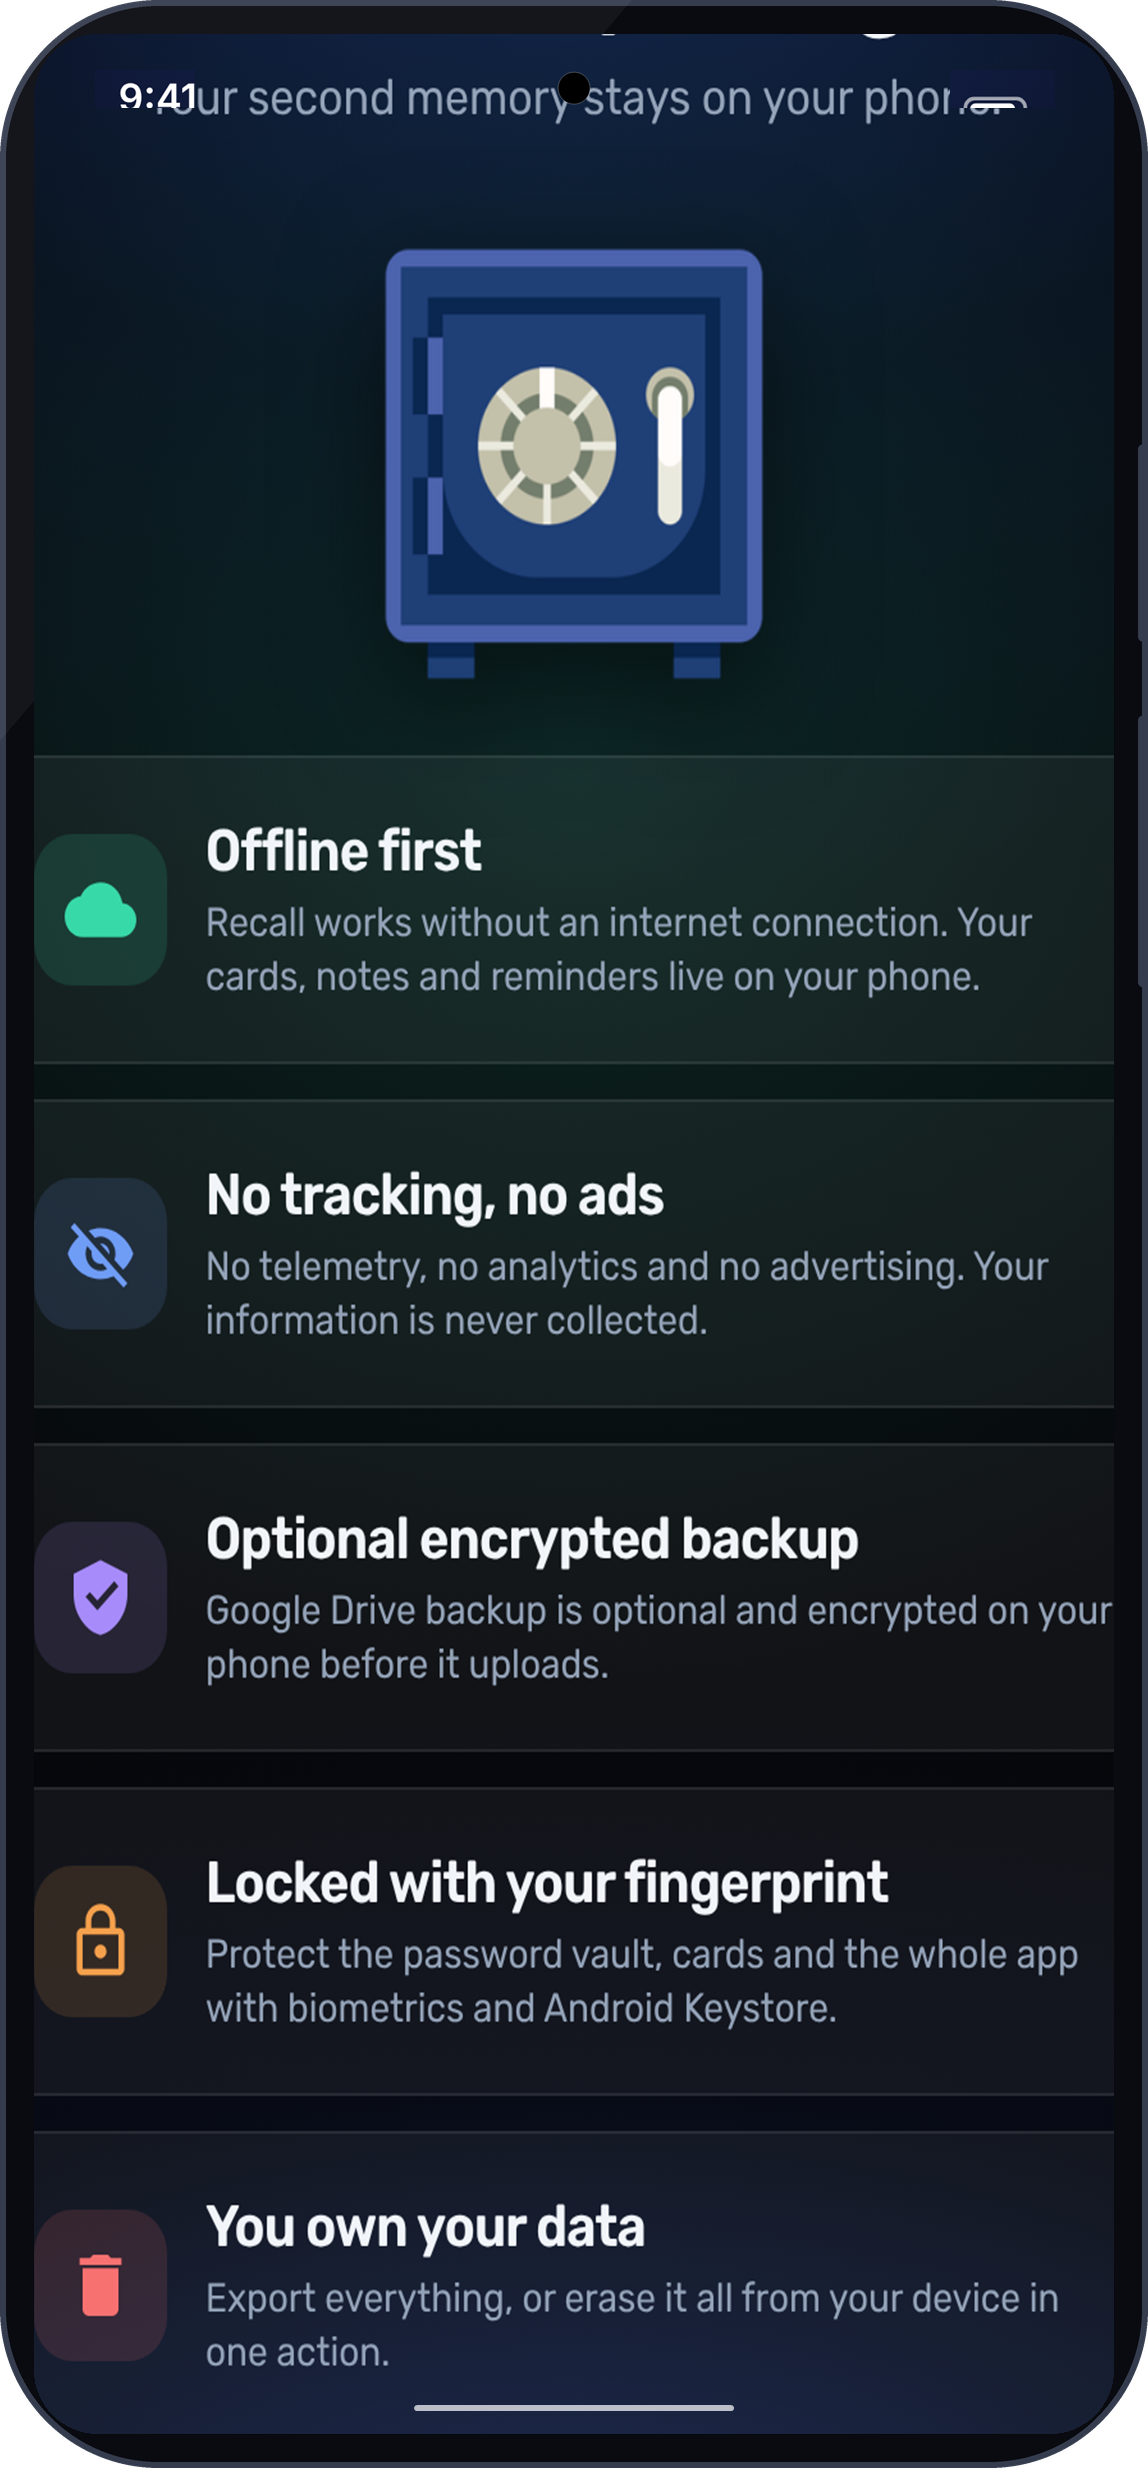
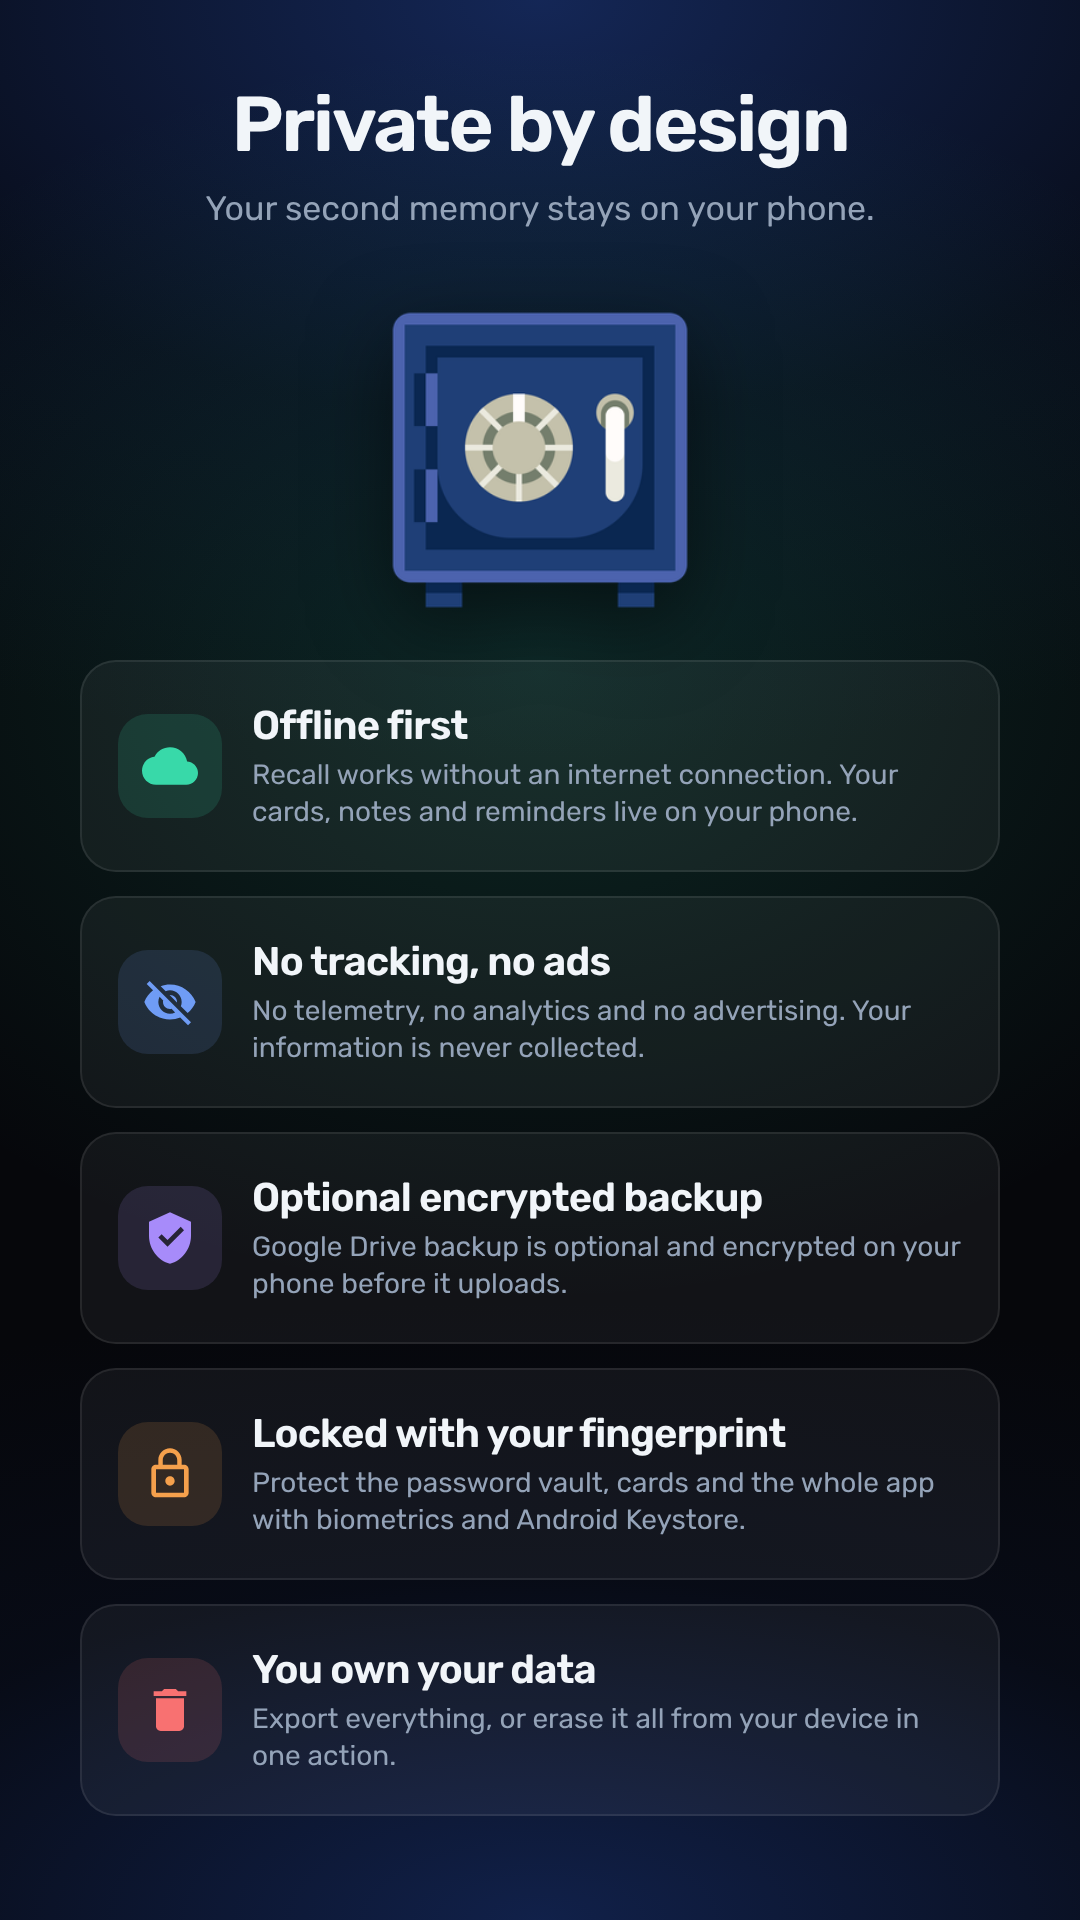
Position Privacy & Security as the final showcase section using the full card image

Changed region(s): [[0.0, 0.0, 1.0, 1.0], [0.9167, 0.625, 0.9472, 0.6562]]

diff --git a/components/case-study/recall-story.tsx b/components/case-study/recall-story.tsx
@@ -21,36 +21,45 @@ const stories = [
     { title: 'Weekly glance & activity', text: 'Track every saved note, memory and deletion across your days with an at-a-glance weekly activity breakdown.' },
     { title: 'Chronological memory stream', text: 'Review past actions grouped by Today, Yesterday or earlier dates, with flexible filters to reconstruct your days.' },
   ] },
+  { title: 'Google Drive Backup', intro: 'A clear view of your backup.', details: [
+    { title: 'Status and control', text: 'See when the last backup completed and start another when you need it. Choose daily or weekly automatic backups and whether to use an unmetered network.' },
+  ] },
   { title: 'Privacy & Security', intro: '100% on-device. Zero telemetry.', details: [
     { title: 'Hardware Keystore encryption', text: 'Sensitive records, logins, passwords and ID cards are secured with hardware-backed AES-256-GCM in the Android Keystore.' },
     { title: 'Biometric shielding', text: 'Guarded behind fingerprint or face authentication with built-in screen shielding against screenshots and recents previews.' },
     { title: 'Zero trackers & no cloud required', text: 'Zero analytics SDKs, zero ad networks, and no mandatory cloud accounts. All your notes and photos stay strictly local.' },
   ] },
-  { title: 'Google Drive Backup', intro: 'A clear view of your backup.', details: [
-    { title: 'Status and control', text: 'See when the last backup completed and start another when you need it. Choose daily or weekly automatic backups and whether to use an unmetered network.' },
-  ] },
 ]
 
 export function RecallStory({ project }: { project: Project }) {
   return <>
-    {stories.map((story, i) => (
-      <CaseSection key={story.title} eyebrow={story.title} title={story.intro} accent={project.accent}>
-        <div className="grid items-center gap-10 lg:grid-cols-2 lg:gap-20">
-          <Reveal className={i % 2 ? 'lg:order-2' : undefined}>
-            <div className="space-y-8">
-              {story.details.map(detail => <div key={detail.title}>
-                <h3 className="text-xl font-semibold text-foreground">{detail.title}</h3>
-                <p className="mt-3 text-pretty leading-relaxed text-muted-foreground">{detail.text}</p>
-              </div>)}
-            </div>
-          </Reveal>
-          <Reveal className="rounded-[2rem] border border-border bg-card/50 p-4 sm:p-8">
-            <Image src={project.screenshots[i].src} alt={project.screenshots[i].alt} width={1148} height={2468}
-              sizes="(min-width: 640px) 400px, 90vw" className="mx-auto h-auto w-full max-w-[400px] object-contain" />
-          </Reveal>
-        </div>
-      </CaseSection>
-    ))}
+    {stories.map((story, i) => {
+      const isCard = project.screenshots[i]?.kind === 'card' || story.title === 'Privacy & Security'
+      return (
+        <CaseSection key={story.title} eyebrow={story.title} title={story.intro} accent={project.accent}>
+          <div className="grid items-center gap-10 lg:grid-cols-2 lg:gap-20">
+            <Reveal className={i % 2 ? 'lg:order-2' : undefined}>
+              <div className="space-y-8">
+                {story.details.map(detail => <div key={detail.title}>
+                  <h3 className="text-xl font-semibold text-foreground">{detail.title}</h3>
+                  <p className="mt-3 text-pretty leading-relaxed text-muted-foreground">{detail.text}</p>
+                </div>)}
+              </div>
+            </Reveal>
+            <Reveal className={isCard ? 'overflow-hidden rounded-[2rem] border border-border bg-card/50 p-3 sm:p-6' : 'rounded-[2rem] border border-border bg-card/50 p-4 sm:p-8'}>
+              <Image
+                src={project.screenshots[i].src}
+                alt={project.screenshots[i].alt}
+                width={isCard ? 1080 : 1148}
+                height={isCard ? 1920 : 2468}
+                sizes={isCard ? '(min-width: 640px) 460px, 90vw' : '(min-width: 640px) 400px, 90vw'}
+                className={isCard ? 'mx-auto h-auto w-full max-w-[440px] rounded-2xl object-contain shadow-2xl' : 'mx-auto h-auto w-full max-w-[400px] object-contain'}
+              />
+            </Reveal>
+          </div>
+        </CaseSection>
+      )
+    })}
   </>
 }
 

diff --git a/lib/projects.ts b/lib/projects.ts
@@ -64,8 +64,8 @@ export const projects: Project[] = [
       { src: '/projects/recall/recall-library.png', alt: 'Recall Library with protected passwords, files, receipts, warranties and collections', kind: 'framed' },
       { src: '/projects/recall/recall-home.png', alt: 'Recall Home with Your Socials, pinned collections, Temporary Click and sticky notes', kind: 'framed' },
       { src: '/projects/recall/recall-timeline.png', alt: 'Timeline showing weekly memory activity, chronological history and saved notes', kind: 'framed' },
-      { src: '/projects/recall/recall-privacy.png', alt: 'Hardware keystore encryption and biometric shielding guarding private records', kind: 'framed' },
       { src: '/projects/recall/recall-drive-backup.png', alt: 'Google Drive Backup with completed backup status and automatic backup controls', kind: 'framed' },
+      { src: '/projects/recall/recall-privacy.png', alt: 'Hardware keystore encryption, screen shielding and 100% on-device architecture', kind: 'card' },
     ],
     caseStudy: {
       overview: 'Recall brings everyday memories, saved items and reminders into one place.',
